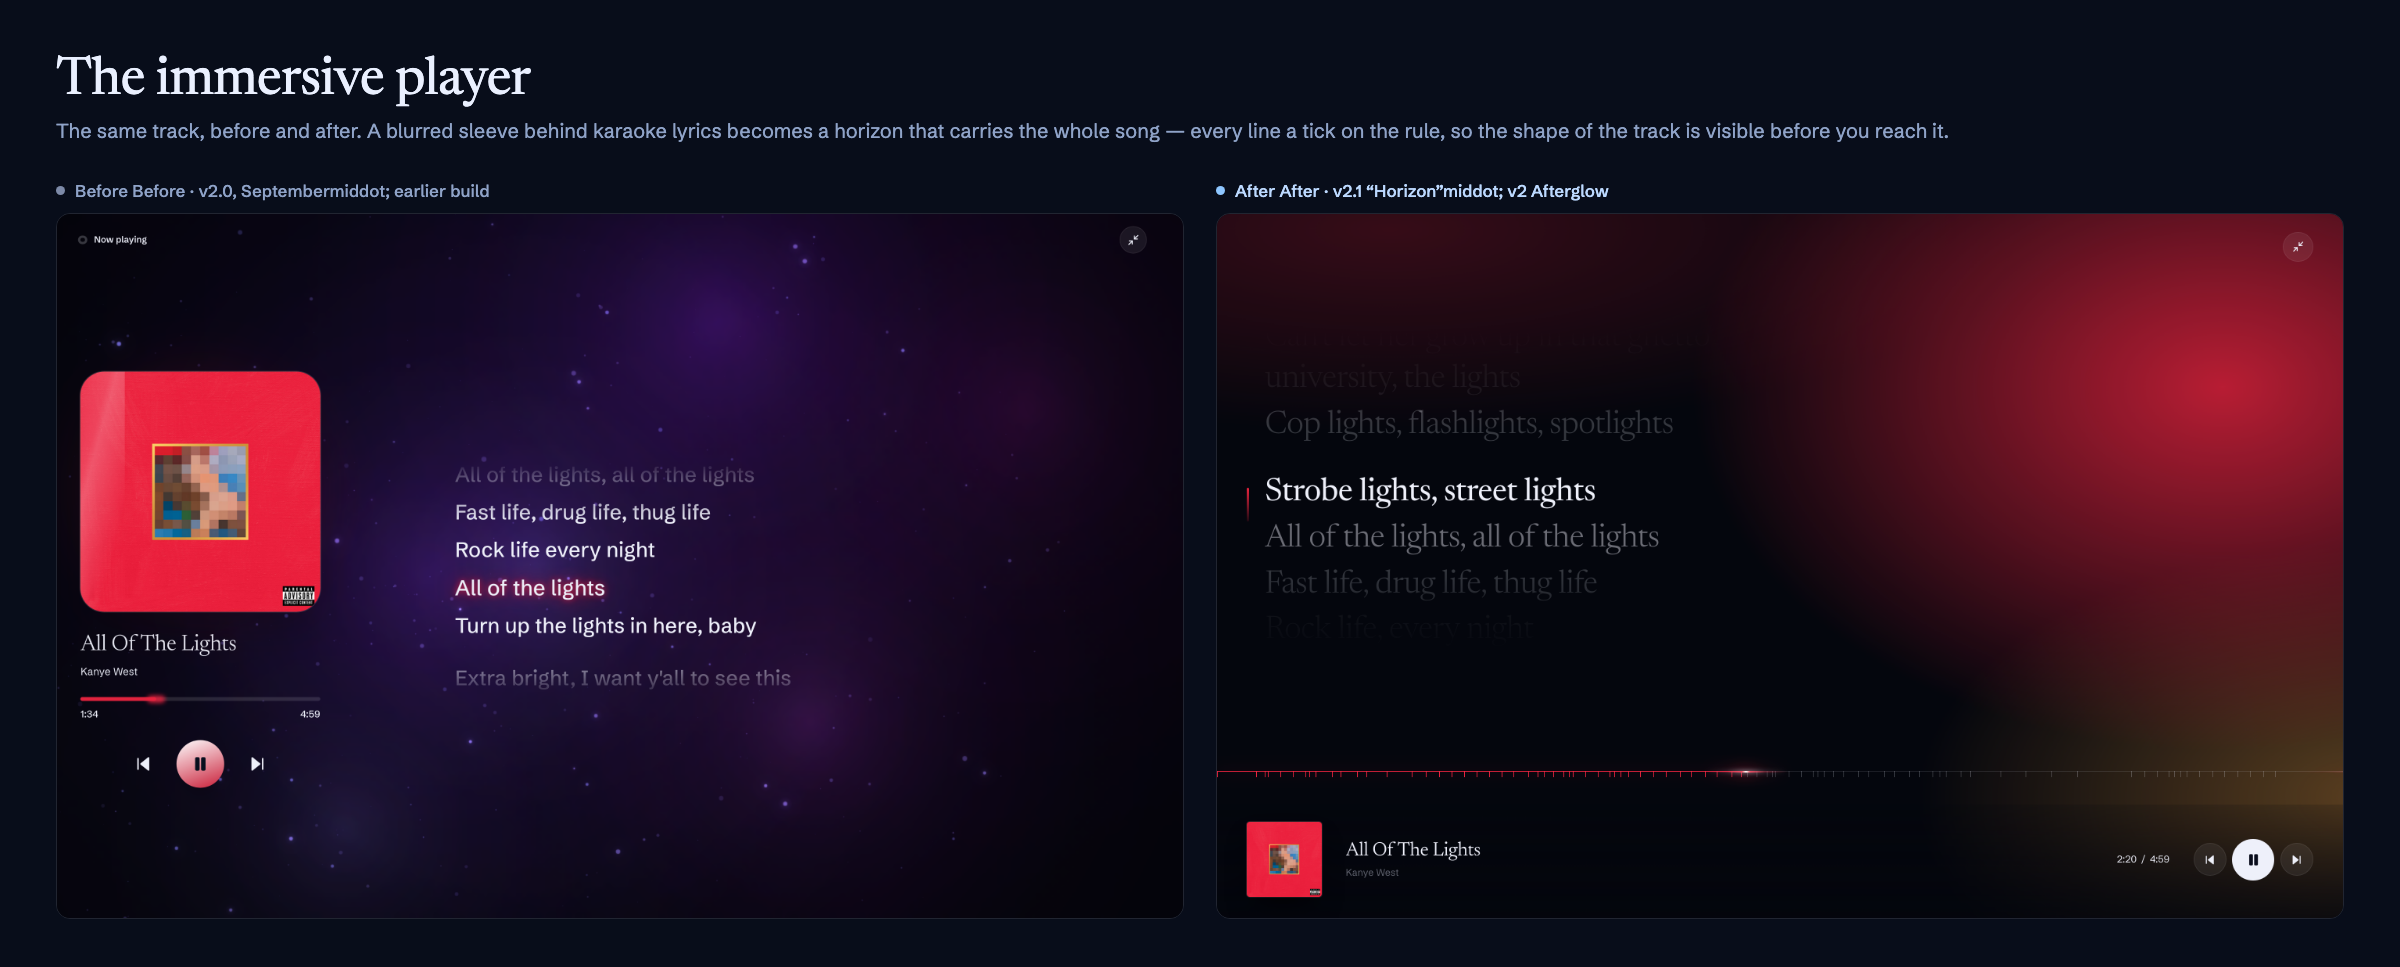
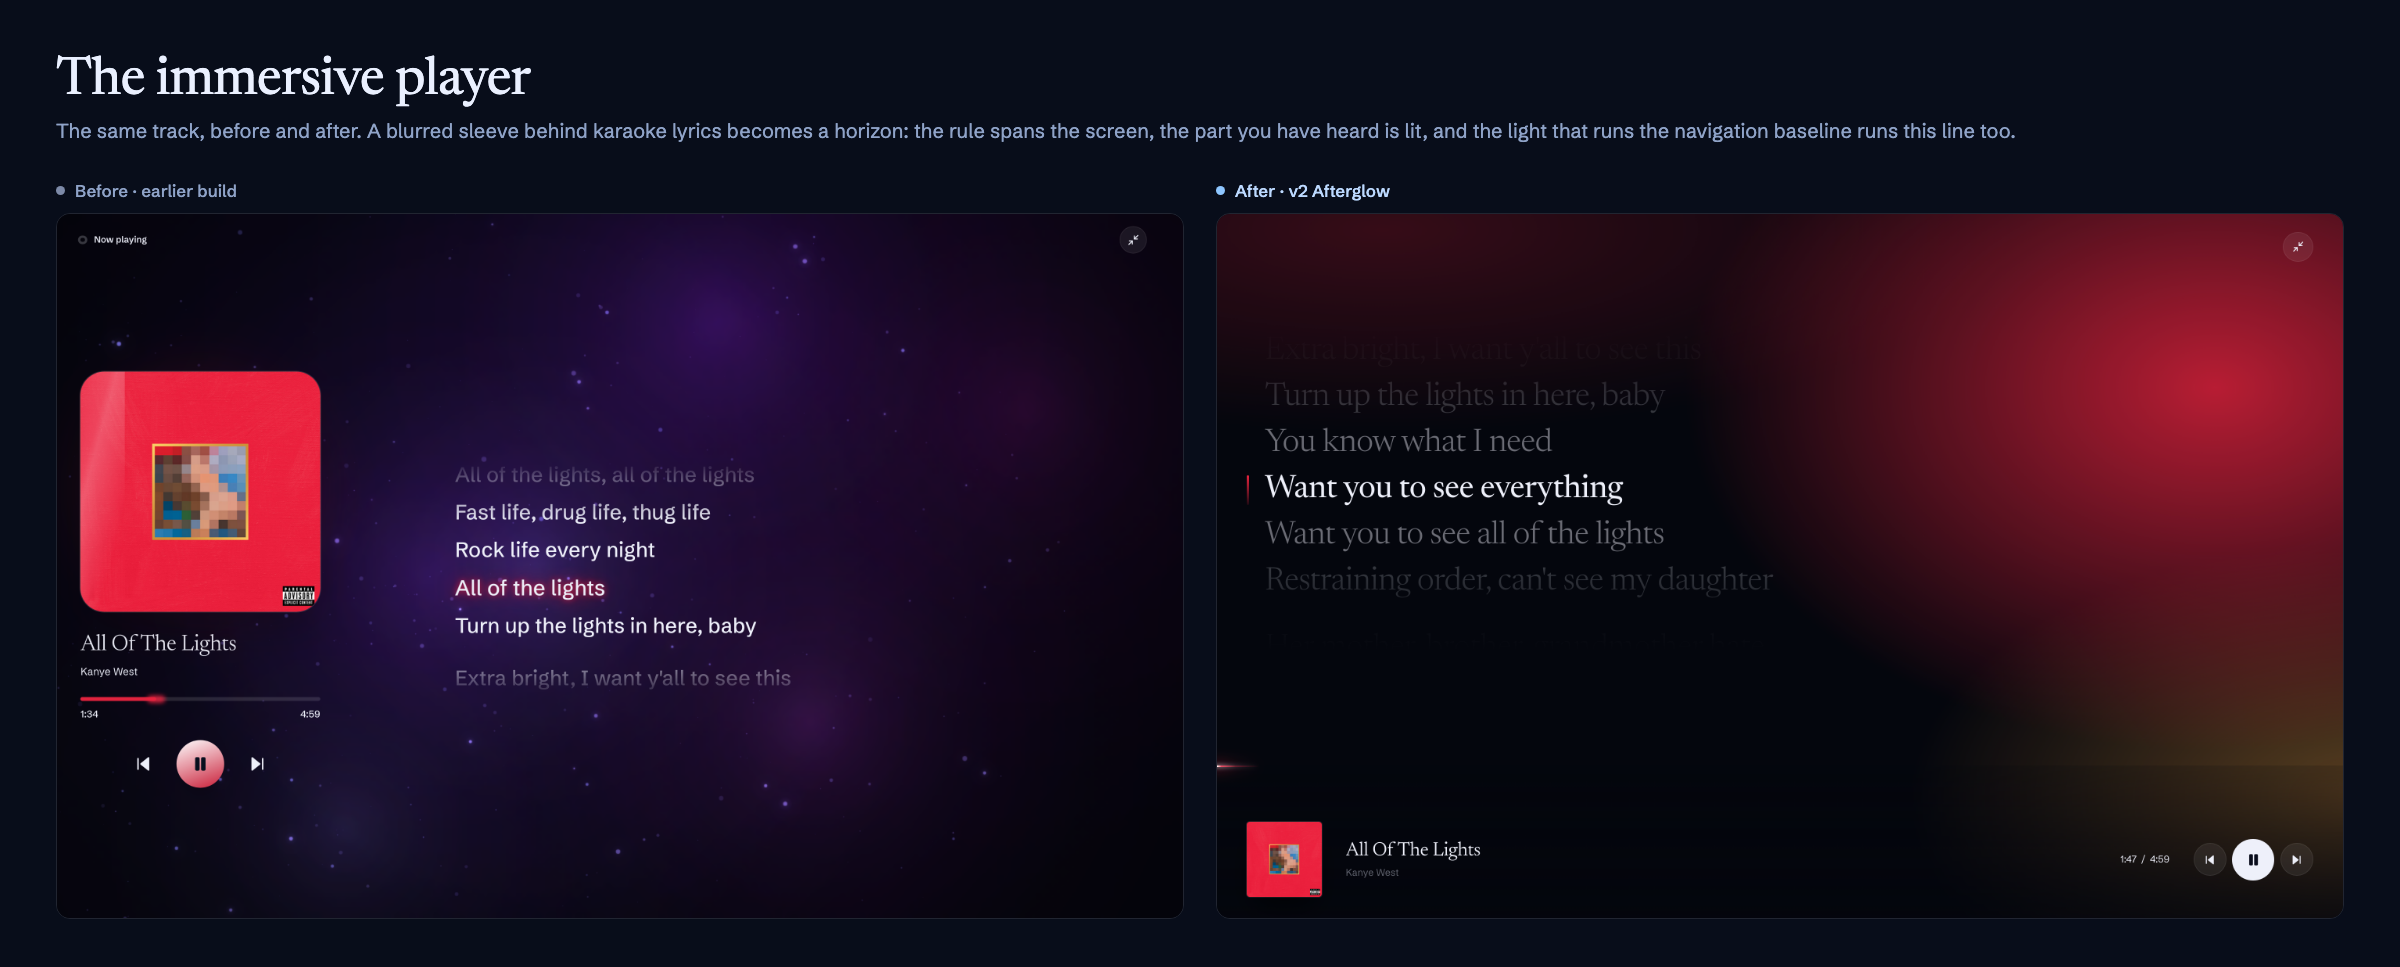
Immersive: put the horizon split on the rule, and refresh the stills
The change of tone between sky and ground started at the BOTTOM of the horizon
strip, not at the rule inside it — so the tonal edge sat 2.75rem below the
progress line and the screen read as having two horizons. The strip and the
footer are now one surface carrying that gradient, with the rule on its top
edge. Measured in the running app: rule top and ground top agree to 0px.

Also replaces the immersive stills, which the previous commit flagged as stale —
they still showed the per-lyric tick marks removed in a06fdb0. The Spotify
Connect device came back, so compare-immersive.png, the release gallery image
and the portfolio's pulseos-14.png are all re-shot against the current build.
The comparison plate's labels are fixed too; earlier sed edits had left them
reading "Before Before · v2.0, Septembermiddot; earlier build".

diff --git a/frontend/src/components/MusicImmersive.jsx b/frontend/src/components/MusicImmersive.jsx
@@ -181,17 +181,19 @@ export default function MusicImmersive({ onClose, afk = false, now }) {
           />
         </div>
 
-        {/* ── The horizon: the song itself ───────────────────────────── */}
-        <Horizon
-          durationMs={durationMs}
-          onSeek={seekTo}
-          rootRef={horizonRef}
-          litRef={litRef}
-          headRef={headRef}
-        />
+        {/* ── The horizon, and the ground under it ───────────────────────
+            One surface, starting at the rule: the tonal edge and the progress
+            line have to be the same line, not two a few rem apart. */}
+        <div className="immersive-ground">
+          <Horizon
+            durationMs={durationMs}
+            onSeek={seekTo}
+            rootRef={horizonRef}
+            litRef={litRef}
+            headRef={headRef}
+          />
 
-        {/* ── Ground: the record, and what you can do to it ──────────── */}
-        <footer className="immersive-ground flex items-center gap-6 px-7 pb-7 pt-6 md:gap-8 md:px-10">
+          <footer className="immersive-ground-bar flex items-center gap-6 px-7 pb-7 pt-6 md:gap-8 md:px-10">
           <Sleeve image={state?.image} track={state?.track} />
 
           <div className="min-w-0 flex-1">
@@ -248,7 +250,8 @@ export default function MusicImmersive({ onClose, afk = false, now }) {
               </div>
             </>
           )}
-        </footer>
+          </footer>
+        </div>
       </div>
 
       {/* Standing in for the screensaver, the whole screen is the way back —

diff --git a/frontend/src/assets/styles.css b/frontend/src/assets/styles.css
@@ -1828,8 +1828,16 @@ h3,
 
 /* ── The ground ────────────────────────────────────────────────────────── */
 
+/* Everything below the rule is one surface, and the rule sits on its top edge:
+   the change of tone and the progress line are the same line. Previously the
+   gradient began under the horizon strip, which put the tonal edge 2.75rem
+   below the rule and read as two horizons. */
 .immersive-ground {
   background: linear-gradient(180deg, rgba(4, 6, 13, 0.16), rgba(4, 6, 13, 0.78));
+}
+
+.immersive-ground-bar {
+  position: relative;
 }
 
 .immersive-title {
